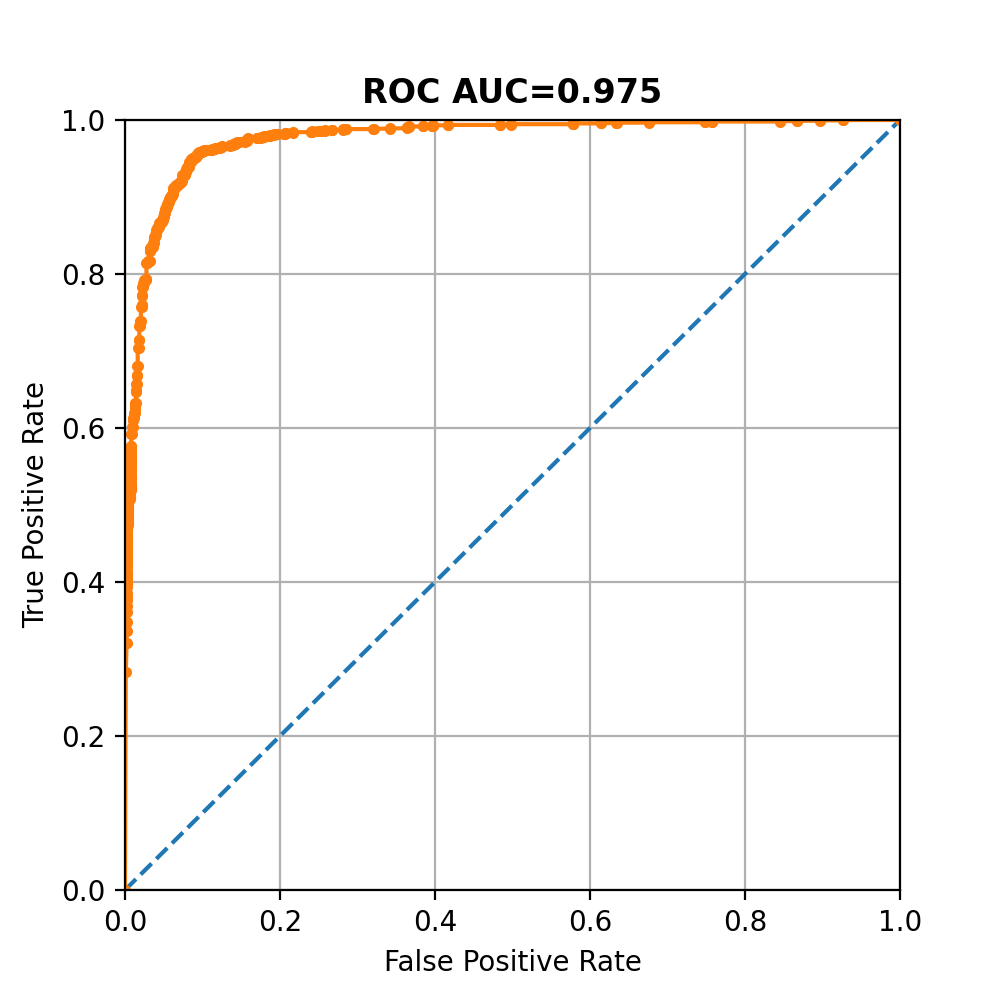
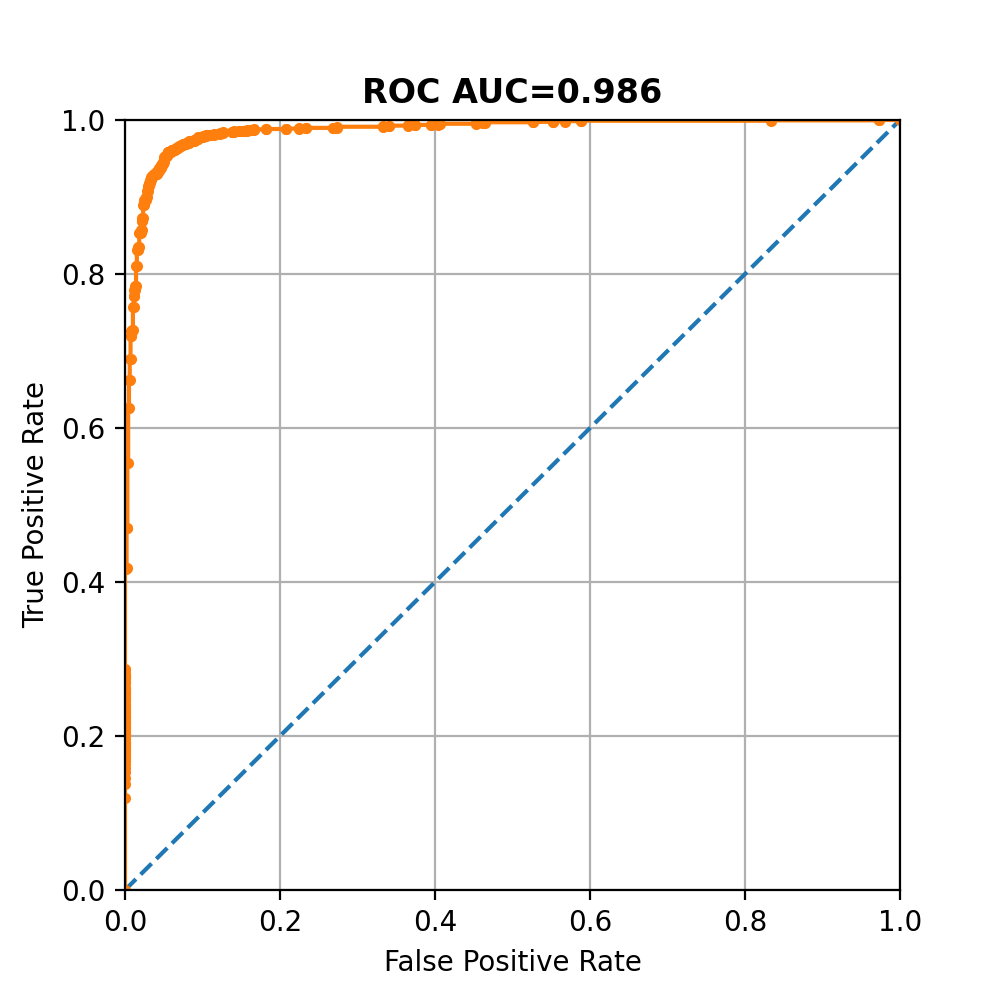
Updated metrics and scoring to use test time augmentation.

diff --git a/cryofilter/utils.py b/cryofilter/utils.py
@@ -3,6 +3,7 @@ Contains utils for training and validation
 
 Author: Simon Thomas
 Date: 30th October 2020
+Update: 31st October 2020
 
 Requirements (available by pip / conda):
 - tensorflow
@@ -20,12 +21,44 @@ import matplotlib.pyplot as plt
 from sklearn.metrics import roc_curve, roc_auc_score, classification_report
 
 
-def get_predictions(model, generator, drop_remainder=False) -> tuple:
+def flip(images):
+    """
+    Flips image stack left to right
+    :param images: ndarray of images (batch_size, h, w, 3)
+    :return: ndarray of images (batch_size, h, w, 3)
+    """
+    return images[..., ::-1, :]
+
+
+def rot90(images):
+    """
+    Rotates image stack anti-clockwise by 90 degrees
+    :param images: ndarray of images (batch_size, h, w, 3)
+    :return: ndarray of images (batch_size, h, w, 3)
+    """
+    return images.swapaxes(-3, -2)[..., ::-1, :, :]
+
+
+def rotate(images, k: int):
+    """
+    Rotates images stack anti-clockwise by 90 degrees k times.
+    :param images: ndarray of images (batch_size, h, w, 3)
+    :param k: int
+    :return: ndarray of images (batch_size, h, w, 3)
+    """
+    if k == 0:
+        return images
+    else:
+        return rotate(rot90(images), k-1)
+
+
+def get_predictions(model, generator, drop_remainder=False, tta=False) -> tuple:
     """
     Gets predicts from the model using the given generator (validation)
     :param model: the trained model to predict with
     :param generator: the generator to use
     :param drop_remainder: bool, whether to drop remainder of not a complete batch
+    :param tta: bool, indicating whether to perform test-time augmentation
     :return: predictions: y_true, y_pred which are each (n, 1) arrays
     """
     # Save all predicts
@@ -44,8 +77,38 @@ def get_predictions(model, generator, drop_remainder=False) -> tuple:
         # Get batch of data
         x1, x2, y = generator.val[step]
 
-        # Get predicts for input
-        y_pred = model.predict([x1, x2])
+        # Predict using test-time augmentation
+        if tta:
+            scores = np.zeros_like(y)
+
+            for j in range(2):
+
+                # Flip let to right
+                if j == 1:
+                    x1 = flip(x1)
+                    x2 = flip(x2)
+
+                # Rotate 90 degrees
+                for f in range(4):
+                    x1 = rotate(x1, f)
+                    x2 = rotate(x2, f)
+
+                    if len(x1.shape) < 4:
+                        x1 = np.expand_dims(x1, axis=-1)
+                        x2 = np.expand_dims(x2, axis=-1)
+
+                    # predict new features
+                    y_pred = model.predict([x1, x2])
+
+                    # Add to sum
+                    scores += y_pred
+
+            # Average the predictions
+            y_pred = scores / 8
+
+        else:
+            # Get predicts for input
+            y_pred = model.predict([x1, x2])
 
         # Save input/output pairs
         y_preds.append(y_pred)

diff --git a/metrics.py b/metrics.py
@@ -34,6 +34,8 @@ parser.add_argument('--batch_size', type=int, default=64,
                     help='Number of images to train at once - between 12 and 128 is fine')
 parser.add_argument('--img_dim', type=int, default=28,
                     help='The size to resize to e.g. 256x256 -> 28x28. Larger is more computation')
+parser.add_argument('--tta', type=bool, default=False,
+                    help='Whether to use Test-Time Augmentation when evaluating the model')
 args = parser.parse_args()
 
 
@@ -49,6 +51,7 @@ WEIGHTS = args.weights
 OUT_DIR = args.out_dir
 POS_FILES = args.pos
 NEG_FILES = args.neg
+TTA = args.tta
 
 # 1. Setup data
 generator = DataGenerator(pos_files=POS_FILES,
@@ -64,7 +67,7 @@ model = build_model(IMG_DIM)
 model.load_weights(WEIGHTS)
 
 # 3. Get predictions
-y_true, y_pred = get_predictions(model, generator, drop_remainder=False)
+y_true, y_pred = get_predictions(model, generator, drop_remainder=False, tta=TTA)
 
 # 4. Compute metrics
 metrics = compute_metrics(y_true, y_pred)

diff --git a/README.md b/README.md
@@ -60,7 +60,7 @@ Matrix plots in the output directory.
 ```
 usage: metrics.py [-h] [--pos POS [POS ...]] [--neg NEG [NEG ...]]
                   [--weights WEIGHTS] [--out_dir OUT_DIR] [--split SPLIT]
-                  [--batch_size BATCH_SIZE] [--img_dim IMG_DIM]
+                  [--batch_size BATCH_SIZE] [--img_dim IMG_DIM] [--tta TTA]
 
 Evaluate network
 
@@ -70,14 +70,15 @@ optional arguments:
   --neg NEG [NEG ...]   mrcs files belonging to the negative class
   --weights WEIGHTS     Path to the model weights
   --out_dir OUT_DIR     Where to save the ROC plot.
-  --split SPLIT         The split for training : validation. Use 1 for
+  --split SPLIT         The split for training : validation. Use 1. to
                         evaluate the whole dataset
   --batch_size BATCH_SIZE
                         Number of images to train at once - between 12 and 128
                         is fine
   --img_dim IMG_DIM     The size to resize to e.g. 256x256 -> 28x28. Larger is
                         more computation
-
+  --tta TTA             Whether to use Test-Time Augmentation when evaluating
+                        the model
 ```
 
 Usage is:
@@ -92,15 +93,16 @@ The output will be:
 --------------------------
    Performance Summary    
 --------------------------
-Auc : 0.998
+Auc : 0.975
 CM :
-[[280.  15.]
- [  4. 597.]]
-Acc : 0.979
-Specificity : 0.949
-Sensitivity : 0.993
+[[ 846.  136.]
+ [  66. 1984.]]
+Acc : 0.933
+Specificity : 0.862
+Sensitivity : 0.968
 
 Saving figure: ./output/roc.png
+
 ```
 
 <img src="./output/roc.png" alt="ROC plot" width="300px">
